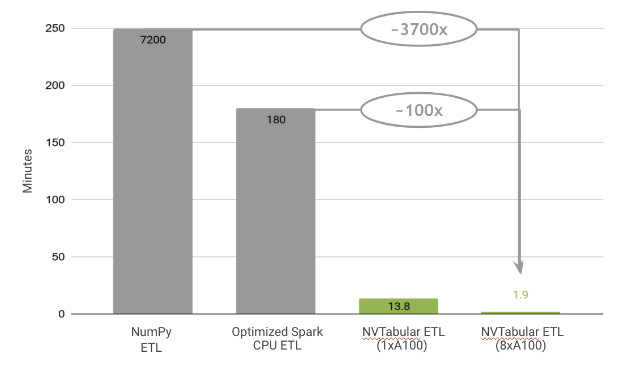
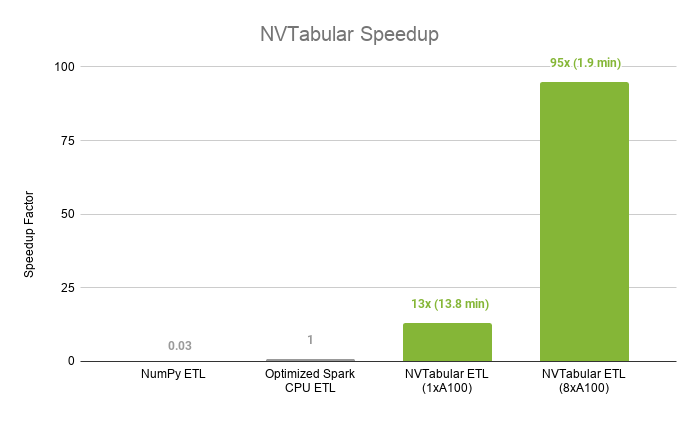
updated charts. added github link.

diff --git a/_includes/cta-footer-merlin.html b/_includes/cta-footer-merlin.html
@@ -7,6 +7,10 @@
             </div>
             <div class="footer-help-box">
               <i class="fab fa-github fa-3x icon"></i>
+              <a href="https://github.com/NVIDIA-Merlin" target="_blank" class="primary-btn">Merlin GitHub</a>
+            </div>
+            <div class="footer-help-box">
+              <i class="fab fa-github fa-3x icon"></i>
               <a href="https://github.com/NVIDIA/NVTabular" target="_blank" class="primary-btn">NVTabular GitHub</a>
             </div>
             <div class="footer-help-box">

diff --git a/merlin.md b/merlin.md
@@ -27,7 +27,7 @@ NVIDIA Merlin is an open source library designed to accelerate recommender syste
 %}
 
 {% capture yd_left %}
-## <i class="fas fa-layer-group"></i> ETL with NVTabular 
+## <i class="fas fa-layer-group"></i> Accelerated ETL
 As the ETL component of the Merlin ecosystem, NVTabular is a feature engineering and preprocessing library for tabular data. It is designed to quickly and easily manipulate terabyte scale datasets that are used to train deep learning based recommender systems. NVTabular uses RAPIDS’ `dask_cudf` to perform GPU-accelerated transformation.
 
 **[Read more about NVTabular’s  features <i class="fas fa-angle-double-right"></i>](https://nvidia.github.io/NVTabular/main/core_features.html){: target="_blank"}**
